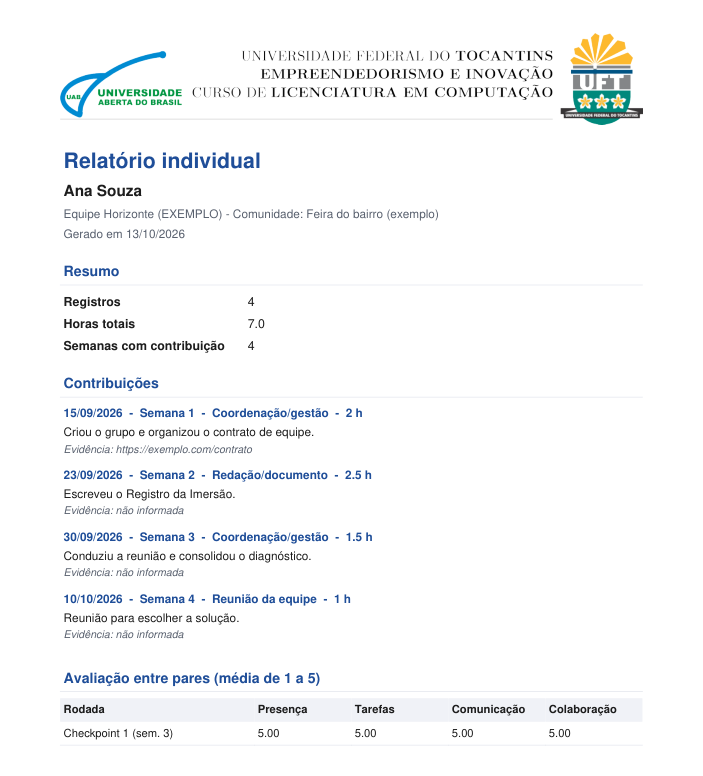
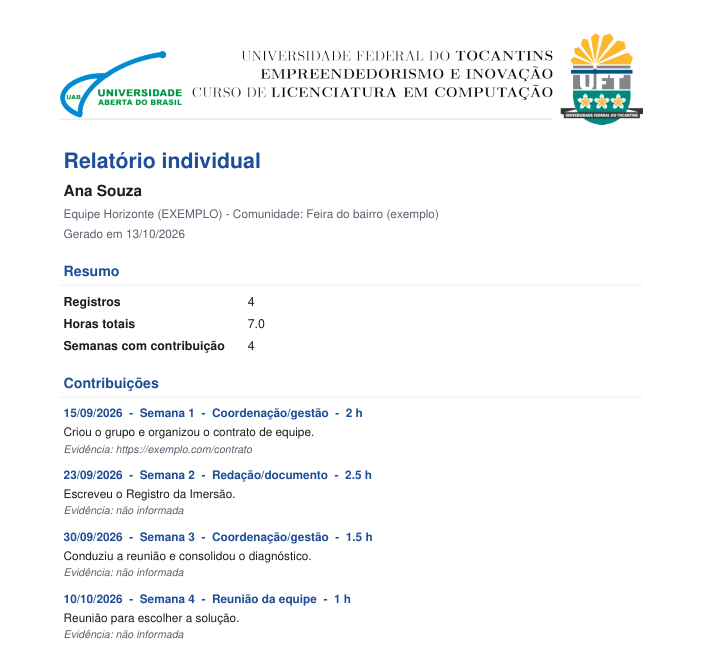
Remove a avaliação entre pares do sistema, do relatório e da documentação

diff --git a/app.py b/app.py
@@ -1,7 +1,7 @@
 """Gestor de Equipe - Empreendedorismo e Inovação (LCOMP-EI-2026-2).
 
 Registra contribuições com evidência, diário de campo, cronograma das 10
-semanas e avaliação entre pares, para comprovar a participação individual.
+semanas e relatório individual, para comprovar a participação individual.
 Persistência: SQLite (data/equipe.db) + pasta data/uploads.
 """
 import base64
@@ -45,13 +45,6 @@ TIPOS_CONTRIB = ["Pesquisa", "Visita/contato com a comunidade", "Redação/docum
                  "Design/prototipação", "Reunião da equipe", "Apresentação/pitch",
                  "Coordenação/gestão", "Outro"]
 TIPOS_CAMPO = ["Visita", "Entrevista", "Observação", "Conversa informal", "Devolutiva"]
-RODADAS = ["Checkpoint 1 (sem. 3)", "Checkpoint 2 (sem. 5-6)", "Avaliação final (sem. 10)"]
-CRITERIOS = {
-    "presenca": "Presença e pontualidade",
-    "entrega": "Cumprimento das tarefas",
-    "comunicacao": "Comunicação com a equipe",
-    "colaboracao": "Colaboração e iniciativa",
-}
 DIAS_ALERTA = 14
 COOKIE_SESSAO = "gestor_sessao"
 EXT_IMAGEM = {".png", ".jpg", ".jpeg", ".gif", ".webp"}
@@ -93,12 +86,6 @@ def init_db():
         CREATE TABLE IF NOT EXISTS sessoes(
             token_hash TEXT PRIMARY KEY, membro_id INTEGER NOT NULL REFERENCES membros(id),
             expira_em TEXT NOT NULL);
-        CREATE TABLE IF NOT EXISTS avaliacoes(
-            id INTEGER PRIMARY KEY, rodada TEXT NOT NULL,
-            avaliador_id INTEGER NOT NULL REFERENCES membros(id),
-            avaliado_id INTEGER NOT NULL REFERENCES membros(id),
-            presenca INTEGER, entrega INTEGER, comunicacao INTEGER, colaboracao INTEGER,
-            comentario TEXT, UNIQUE(rodada, avaliador_id, avaliado_id));
         """)
         con.execute("INSERT OR IGNORE INTO equipe(id) VALUES (1)")
         if "codigo" not in [r[1] for r in con.execute("PRAGMA table_info(equipe)")]:
@@ -318,12 +305,11 @@ def tela_inicial():
 
 
 def registros_do_membro(mid):
-    """Conta tudo que referencia o integrante (contribuições, diário, avaliações e tarefas)."""
+    """Conta tudo que referencia o integrante (contribuições, diário e tarefas)."""
     with db() as con:
         return con.execute(
             """SELECT (SELECT COUNT(*) FROM contribuicoes WHERE membro_id = :m)
                     + (SELECT COUNT(*) FROM diario WHERE autor_id = :m)
-                    + (SELECT COUNT(*) FROM avaliacoes WHERE avaliador_id = :m OR avaliado_id = :m)
                     + (SELECT COUNT(*) FROM tarefas WHERE responsavel_id = :m)""",
             {"m": mid}).fetchone()[0]
 
@@ -619,51 +605,12 @@ def pg_diario(u):
                 st.caption(f"Registrado por {r['autor']}")
 
 
-def pg_pares(u):
-    st.header("Avaliação entre pares")
-    st.caption("Suas notas são anônimas: a equipe só vê a média recebida por cada pessoa.")
-    rodada = st.selectbox("Rodada", RODADAS)
-    outros = q("SELECT id, nome FROM membros WHERE ativo = 1 AND id != ? ORDER BY nome",
-               (int(u["id"]),))
-    for _, o in outros.iterrows():
-        ant = q("SELECT * FROM avaliacoes WHERE rodada=? AND avaliador_id=? AND avaliado_id=?",
-                (rodada, int(u["id"]), int(o["id"])))
-        v = ant.iloc[0] if not ant.empty else None
-        with st.expander(o["nome"] + ("  ✔" if v is not None else "")):
-            with st.form(f"av{o['id']}_{rodada}"):
-                notas = {k: st.slider(lbl, 1, 5, int(v[k]) if v is not None else 3)
-                         for k, lbl in CRITERIOS.items()}
-                com = st.text_area("Comentário (opcional)", (v["comentario"] or "") if v is not None else "")
-                if st.form_submit_button("Salvar avaliação"):
-                    ex("""INSERT INTO avaliacoes(rodada, avaliador_id, avaliado_id, presenca, entrega,
-                          comunicacao, colaboracao, comentario) VALUES (?,?,?,?,?,?,?,?)
-                          ON CONFLICT(rodada, avaliador_id, avaliado_id) DO UPDATE SET
-                          presenca=excluded.presenca, entrega=excluded.entrega,
-                          comunicacao=excluded.comunicacao, colaboracao=excluded.colaboracao,
-                          comentario=excluded.comentario""",
-                       (rodada, int(u["id"]), int(o["id"]), notas["presenca"], notas["entrega"],
-                        notas["comunicacao"], notas["colaboracao"], com))
-                    st.success("Salvo.")
-    st.subheader("Médias recebidas")
-    med = q("""SELECT m.nome AS Integrante, COUNT(a.id) AS Avaliações,
-                      ROUND(AVG(a.presenca),2) AS Presença, ROUND(AVG(a.entrega),2) AS Entrega,
-                      ROUND(AVG(a.comunicacao),2) AS Comunicação,
-                      ROUND(AVG(a.colaboracao),2) AS Colaboração
-               FROM membros m LEFT JOIN avaliacoes a ON a.avaliado_id = m.id AND a.rodada = ?
-               WHERE m.ativo = 1 GROUP BY m.id ORDER BY m.nome""", (rodada,))
-    st.dataframe(med, hide_index=True, width="stretch")
-
-
 def relatorio_membro(mid, nome):
-    """Monta o PDF individual com as contribuições e as médias de avaliação recebidas."""
+    """Monta o PDF individual com as contribuições do integrante."""
     c = q("SELECT data, semana, tipo, descricao, horas, link, arquivo FROM contribuicoes "
           "WHERE membro_id = ? ORDER BY data", (mid,))
-    med = q("""SELECT rodada AS Rodada, ROUND(AVG(presenca),2) AS Presença,
-                      ROUND(AVG(entrega),2) AS Tarefas, ROUND(AVG(comunicacao),2) AS Comunicação,
-                      ROUND(AVG(colaboracao),2) AS Colaboração
-               FROM avaliacoes WHERE avaliado_id = ? GROUP BY rodada""", (mid,))
     e = q("SELECT nome, comunidade FROM equipe WHERE id = 1").iloc[0]
-    return gerar_pdf(nome, e["nome"], e["comunidade"], c, med)
+    return gerar_pdf(nome, e["nome"], e["comunidade"], c)
 
 
 def pg_exportar(u):
@@ -685,7 +632,6 @@ PAGINAS = {
     "Cronograma": pg_cronograma,
     "Minhas contribuições": pg_contribuicoes,
     "Diário de campo": pg_diario,
-    "Avaliação entre pares": pg_pares,
     "Relatório em PDF": pg_exportar,
 }
 

diff --git a/relatorio_pdf.py b/relatorio_pdf.py
@@ -1,4 +1,4 @@
-"""Relatório individual em PDF: contribuições com evidência e médias da avaliação entre pares."""
+"""Relatório individual em PDF: contribuições do integrante, com evidência."""
 
 from datetime import date
 from pathlib import Path
@@ -54,10 +54,9 @@ def _secao(pdf, titulo):
     pdf.set_text_color(30, 30, 30)
 
 
-def gerar_pdf(nome, equipe, comunidade, contribuicoes, medias):
+def gerar_pdf(nome, equipe, comunidade, contribuicoes):
     """
     contribuicoes: DataFrame com data, semana, tipo, descricao, horas, link, arquivo.
-    medias: DataFrame com rodada e colunas de média por critério (já arredondadas).
     """
     pdf = _PDF(format="A4")
     pdf.set_margins(18, 16, 18)
@@ -110,23 +109,4 @@ def gerar_pdf(nome, equipe, comunidade, contribuicoes, medias):
                        new_x="LMARGIN", new_y="NEXT")
         pdf.ln(2.5)
 
-    _secao(pdf, "Avaliação entre pares (média de 1 a 5)")
-    if medias.empty:
-        pdf.set_font("Helvetica", "I", 10)
-        pdf.cell(0, 6, "Sem avaliações recebidas.", new_x="LMARGIN", new_y="NEXT")
-    else:
-        colunas = list(medias.columns)
-        larguras = [58] + [(pdf.w - pdf.l_margin - pdf.r_margin - 58) / (len(colunas) - 1)] * (len(colunas) - 1)
-        pdf.set_font("Helvetica", "B", 9.5)
-        pdf.set_fill_color(240, 243, 248)
-        pdf.set_text_color(30, 30, 30)
-        for c, w in zip(colunas, larguras):
-            pdf.cell(w, 7, _t(c), border=0, fill=True)
-        pdf.ln()
-        pdf.set_font("Helvetica", "", 9.5)
-        for _, r in medias.iterrows():
-            for c, w in zip(colunas, larguras):
-                v = r[c]
-                pdf.cell(w, 7, _t(f"{v:.2f}" if isinstance(v, float) else v), border="B")
-            pdf.ln()
     return bytes(pdf.output())

diff --git a/seed_exemplo.py b/seed_exemplo.py
@@ -79,16 +79,6 @@ def main():
                               (4, "Em andamento", ana)]:
         app.ex("UPDATE tarefas SET status=?, responsavel_id=? WHERE semana=?", (status, resp, sem))
 
-    notas = {
-        (ana, bruno): (5, 5, 4, 5), (ana, carla): (5, 4, 5, 4), (ana, diego): (3, 2, 3, 2),
-        (bruno, ana): (5, 5, 5, 5), (bruno, carla): (4, 4, 5, 4), (bruno, diego): (3, 2, 2, 2),
-        (carla, ana): (5, 5, 5, 5), (carla, bruno): (5, 4, 4, 5), (carla, diego): (4, 3, 3, 3),
-        (diego, ana): (5, 5, 5, 5), (diego, bruno): (4, 4, 4, 4), (diego, carla): (5, 5, 4, 5),
-    }
-    for (av, ao), (p, e, c, col) in notas.items():
-        app.ex("""INSERT INTO avaliacoes(rodada, avaliador_id, avaliado_id, presenca, entrega,
-                  comunicacao, colaboracao, comentario) VALUES (?,?,?,?,?,?,?,?)""",
-               (app.RODADAS[0], av, ao, p, e, c, col, ""))
     print("Dados de exemplo criados. Entre com qualquer integrante (ex.: Ana Souza) e PIN 1234.")
 
 

diff --git a/README.md b/README.md
@@ -12,7 +12,7 @@
 
 > *Saber **quem fez o quê**, com prova, e manter o projeto andando semana a semana.*
 
-Sistema web simples para uma equipe de estudantes organizar um projeto de empreendedorismo e inovação social: tarefas por semana, contribuição de cada integrante com evidência, diário de campo da comunidade, avaliação entre pares e relatório individual em PDF. Feito em Python com [Streamlit](https://streamlit.io), com os dados em um banco SQLite local, sem serviços externos.
+Sistema web simples para uma equipe de estudantes organizar um projeto de empreendedorismo e inovação social: tarefas por semana, contribuição de cada integrante com evidência, diário de campo da comunidade e relatório individual em PDF. Feito em Python com [Streamlit](https://streamlit.io), com os dados em um banco SQLite local, sem serviços externos.
 
 📌 *Criado para a disciplina de Empreendedorismo e Inovação, Licenciatura em Computação, UFT/UAB.*
 
@@ -27,8 +27,7 @@ Sistema web simples para uma equipe de estudantes organizar um projeto de empree
 - 🗓 **Cronograma**: 10 semanas com prazo, responsável e status de cada tarefa.
 - 📝 **Minhas contribuições**: data, tipo, horas, descrição e evidência (link ou arquivo; as imagens aparecem em prévia).
 - 🌱 **Diário de campo**: visitas, entrevistas e observações na comunidade.
-- ⭐ **Avaliação entre pares**: notas de 1 a 5 em quatro critérios, **anônimas**; cada um vê só a média que recebeu.
-- 📄 **Relatório em PDF**: contribuições com evidência e médias recebidas, com cabeçalho institucional.
+- 📄 **Relatório em PDF**: contribuições do integrante, com evidência e cabeçalho institucional.
 - 📱 **App instalável**: funciona no navegador e pode ser instalado no celular ou no computador.
 
 ## 🖼 Telas
@@ -109,7 +108,6 @@ O sistema roda como um serviço comum de Streamlit atrás de um proxy HTTPS. Em 
 ## 🎨 Adaptar para outra equipe
 
 - 🗓 **Textos e prazos** das 10 semanas: lista `CRONOGRAMA`, no início do `app.py`.
-- ⭐ **Rodadas e critérios** da avaliação: `RODADAS` e `CRITERIOS`.
 - 🖼 **Identidade visual**: troque os arquivos de `imagens/` e `static/` e a cor em `.streamlit/config.toml`.
 
 ## 📜 Licença

diff --git a/GUIA-EQUIPE.md b/GUIA-EQUIPE.md
@@ -1,6 +1,6 @@
 # Gestor de Equipe: como funciona
 
-Um sistema simples para a equipe organizar o projeto em um só lugar: tarefas, o que cada um fez, o que ouvimos da comunidade e avaliação entre os colegas.
+Um sistema simples para a equipe organizar o projeto em um só lugar: tarefas, o que cada um fez e o que ouvimos da comunidade.
 
 ## Entrar
 
@@ -23,11 +23,8 @@ Onde cada um registra o que fez: data, semana, tipo de atividade, horas e descri
 **Diário de campo**
 O caderno da comunidade. Cada visita, entrevista, observação ou conversa vira um registro: data, local, quem da equipe estava, quem foi ouvido, o que aconteceu e o que aprendemos. Pode anexar foto ou documento.
 
-**Avaliação entre pares**
-Em cada rodada (Checkpoint 1, Checkpoint 2 e final), você dá notas de 1 a 5 para cada colega em quatro critérios: presença, tarefas, comunicação e colaboração, com comentário opcional. As notas são anônimas. A tela mostra só a média que cada pessoa recebeu. Dá para editar sua avaliação enquanto a rodada está aberta.
-
 **Relatório em PDF**
-Gera o relatório individual em PDF, com todas as contribuições da pessoa (com evidência) e as médias recebidas. O líder pode gerar o relatório de qualquer integrante; os demais, só o próprio.
+Gera o relatório individual em PDF, com todas as contribuições da pessoa (com evidência). O líder pode gerar o relatório de qualquer integrante; os demais, só o próprio.
 
 ## Um uso típico no dia a dia
 
@@ -35,8 +32,7 @@ Gera o relatório individual em PDF, com todas as contribuições da pessoa (com
 2. Depois de fazer algo, abrir **Minhas contribuições** e registrar com o link ou arquivo.
 3. Depois de ir à comunidade, preencher o **Diário de campo**.
 4. Olhar o **Painel** para ver o andamento.
-5. Nas rodadas de avaliação, preencher a **Avaliação entre pares**.
-6. No fim, baixar o **Relatório em PDF**.
+5. No fim, baixar o **Relatório em PDF**.
 
 ## Onde ficam os dados
 
